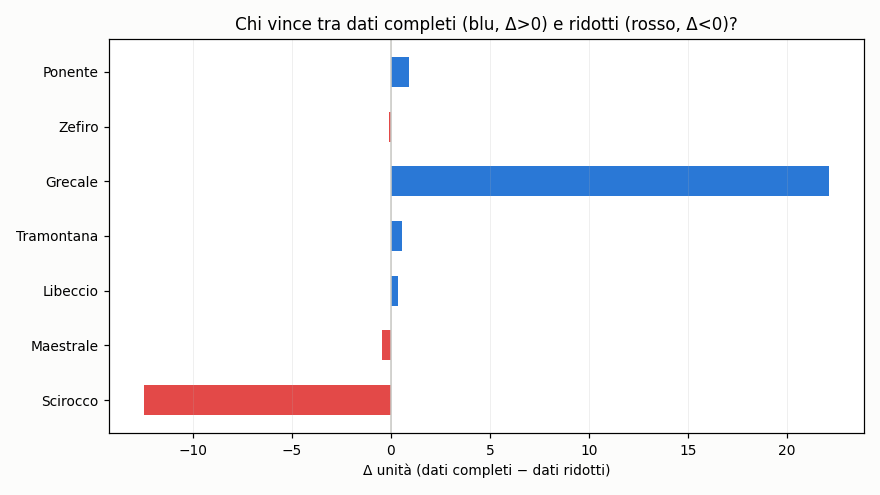
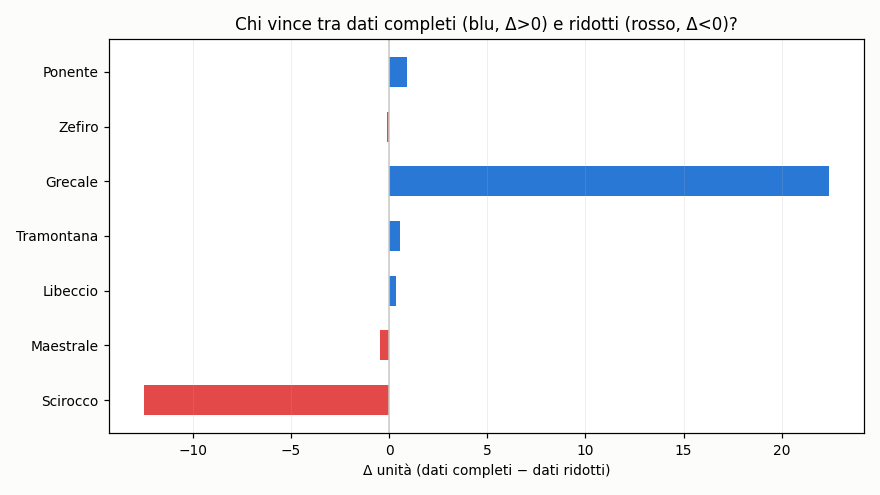
aggiornamento 2026-07-27 16:51 UTC

diff --git a/README.md b/README.md
@@ -37,9 +37,9 @@ scala in unità). Non indichiamo quale.
 
 ## Grafici
 
-![Coppie: dati completi vs ridotti](https://raw.githubusercontent.com/Kitem19/ippica-track-record/main/charts/equity_pairs.png?v=502cd666)
+![Coppie: dati completi vs ridotti](https://raw.githubusercontent.com/Kitem19/ippica-track-record/main/charts/equity_pairs.png?v=f8071947)
 
-![Delta per coppia](https://raw.githubusercontent.com/Kitem19/ippica-track-record/main/charts/coppie_delta.png?v=0a2e56c9)
+![Delta per coppia](https://raw.githubusercontent.com/Kitem19/ippica-track-record/main/charts/coppie_delta.png?v=d454a6cc)
 
 ### Come leggere i grafici
 
@@ -60,7 +60,7 @@ _Poche giornate: numeri ancora rumorosi, si conclude a fine fase (31/7)._
 - **Maestrale**: in sostanziale pareggio — troppo presto per dire
 - **Libeccio**: in sostanziale pareggio — troppo presto per dire
 - **Tramontana**: in sostanziale pareggio — troppo presto per dire
-- **Grecale**: dati completi avanti di 22,1u
+- **Grecale**: dati completi avanti di 22,4u
 - **Zefiro**: in sostanziale pareggio — troppo presto per dire
 - **Ponente**: in sostanziale pareggio — troppo presto per dire
 
@@ -68,22 +68,22 @@ _Poche giornate: numeri ancora rumorosi, si conclude a fine fase (31/7)._
 
 | Sistema | Cassa (u) | P/L (u) | Selezioni | Escluse | Stato |
 |---|---|---|---|---|---|
-| Grecale | 21,9 | +1,9 | 314 | 4 | 🟢 |
+| Grecale | 22,2 | +2,2 | 315 | 4 | 🟢 |
 | Scirocco-B | 12,4 | -7,6 | 246 | 0 | 🟢 |
-| Maestrale-B | 0,0 | -20,0 | 100 | 247 | 🛑 |
+| Maestrale-B | 0,0 | -20,0 | 100 | 248 | 🛑 |
 | Ponente | 0,0 | -20,0 | 213 | 34 | 🛑 |
 | Scirocco | 0,0 | -20,1 | 80 | 272 | 🛑 |
-| Grecale-B | 0,0 | -20,2 | 137 | 180 | 🛑 |
+| Grecale-B | 0,0 | -20,2 | 137 | 181 | 🛑 |
 | Tramontana | 0,0 | -20,3 | 45 | 314 | 🛑 |
 | Zefiro-B | 0,0 | -20,5 | 143 | 78 | 🛑 |
-| Maestrale | 0,0 | -20,5 | 104 | 265 | 🛑 |
-| Zefiro | 0,0 | -20,6 | 268 | 9 | 🛑 |
-| Libeccio | 0,0 | -20,6 | 181 | 174 | 🛑 |
-| Tramontana-B | 0,0 | -20,8 | 324 | 22 | 🛑 |
-| Libeccio-B | 0,0 | -20,9 | 119 | 187 | 🛑 |
-| Ponente-B | 0,0 | -21,0 | 63 | 92 | 🛑 |
+| Maestrale | 0,0 | -20,5 | 104 | 266 | 🛑 |
+| Zefiro | 0,0 | -20,6 | 268 | 10 | 🛑 |
+| Libeccio | 0,0 | -20,6 | 181 | 175 | 🛑 |
+| Tramontana-B | 0,0 | -20,8 | 324 | 23 | 🛑 |
+| Libeccio-B | 0,0 | -20,9 | 119 | 188 | 🛑 |
+| Ponente-B | 0,0 | -21,0 | 63 | 93 | 🛑 |
 
-_Aggiornato: 27/07 18:46_
+_Aggiornato: 27/07 18:51_
 ---
 *Nessuna delle informazioni qui pubblicate costituisce consiglio di gioco.
 Il gioco può causare dipendenza — 18+.*
